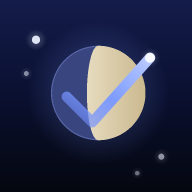
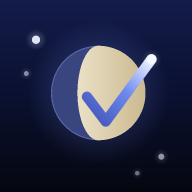
Get the meteor off the moon's unlit half
The stroke crossed three fields — the unlit navy, the lit gold, and the open
sky — and no single blue reads on all three. Measured against each:

  #7d9bff   7.09:1 on the sky   3.44:1 on the navy   1.36:1 on the gold
  #2c3a7a   1.76:1 on the sky   1.17:1 on the navy   7.71:1 on the gold

Every blue that gains on one loses on another, so a stroke straddling the
terminator is illegible along part of its length whatever colour it is picked
in. The previous version spent 26% of its length on the navy and measured
1.74:1 median contrast, with 87% of it under 3:1.

The fix is geometric first. The check now begins on the lit lune and leaves
over the sky, and touches the unlit half nowhere: 84% on the gold, 16% on the
sky, 0% on the navy. The lune widens from 0.62 to 0.72 fill to make room — the
moon still reads as part lit, which is the whole point of it.

The gradient was also running exactly backwards. It faded 50%-opacity blue to
near-white, which put its dim end on the navy and its hot end on the gold: each
end on the one field it could not be seen against. The taper is now in value
rather than in opacity, deep where the stroke lies on the gold and near-white
where it leaves onto the sky. Median contrast goes 1.74 to 3.29, the share
under 3:1 goes 87% to 45%, and the signal the check contributes at 29px rises
65%.

Two new tests, because neither of these can be seen by reading the file. One
sweeps the stroke's whole covered area — including the round caps, which bulge
[…]

Changed region(s): [[0.3125, 0.2188, 0.8125, 0.75]]

diff --git a/tests/icons.test.js b/tests/icons.test.js
@@ -162,7 +162,8 @@ test('the stroke gradient matches in both renderers', () => {
 
   assert.deepEqual(stops.map((s) => s.color), [color('METEOR_DIM'), color('METEOR_MID'), color('METEOR_LIT')]);
   assert.equal(stops[1].at, Number(RASTER.match(/const GRAD_STOP = ([\d.]+);/)[1]));
-  assert.deepEqual(stops.map((s) => s.opacity), [0.5, 1, 1]);
+  // Fully opaque throughout. The taper is in value, not in alpha — see below.
+  assert.deepEqual(stops.map((s) => s.opacity), [1, 1, 1]);
 
   // It runs bottom-left to top-right, the direction of travel. If this axis
   // ever flips, the streak brightens at the tail instead of at the head and the
@@ -172,14 +173,88 @@ test('the stroke gradient matches in both renderers', () => {
   assert.deepEqual(axis, [0, 1, 1, 0]);
 });
 
-test('the tail fades but never to nothing', () => {
-  // A stroke that reaches zero opacity vanishes into the unlit half of the moon
-  // and the short arm of the check goes missing, which is what the first draft
-  // did. The floor is what keeps both arms readable at 29px.
-  const block = SVG.match(/<linearGradient id="meteor"[^>]*>([\s\S]*?)<\/linearGradient>/)[1];
-  const first = block.match(/offset="0%"[^/]*stop-opacity="([\d.]+)"/);
-  assert.ok(Number(first[1]) >= 0.4, 'the tail is too faint to survive the unlit half');
-  assert.ok(Number(first[1]) < 1, 'a meteor with no fade is just a checkmark');
+/* WCAG relative luminance, and the contrast ratio between two hex colours. */
+function luminance(hex) {
+  const chan = (i) => {
+    const s = parseInt(hex.slice(1 + i * 2, 3 + i * 2), 16) / 255;
+    return s <= 0.03928 ? s / 12.92 : ((s + 0.055) / 1.055) ** 2.4;
+  };
+  return 0.2126 * chan(0) + 0.7152 * chan(1) + 0.0722 * chan(2);
+}
+const contrast = (a, b) => {
+  const [hi, lo] = luminance(a) > luminance(b) ? [a, b] : [b, a];
+  return (luminance(hi) + 0.05) / (luminance(lo) + 0.05);
+};
+
+test('no part of the meteor lies on the moon\'s unlit half', () => {
+  // This is the constraint the whole colour scheme hangs on, so it is asserted
+  // rather than trusted. There is no blue that reads on both fields at once:
+  //
+  //   #7d9bff  3.44:1 on the unlit navy   1.36:1 on the gold
+  //   #2c3a7a  1.17:1 on the unlit navy   7.71:1 on the gold
+  //
+  // A stroke crossing the terminator is therefore illegible along part of its
+  // length whatever colour it is given. The first version of this icon crossed
+  // it, spent 26% of its length on the navy, and measured 1.74:1 median with
+  // 87% of the stroke under 3:1. The fix was geometric, not chromatic.
+  const cx = units('MOON_X');
+  const cy = units('MOON_Y');
+  const r = units('MOON_R');
+  const fill = Number(RASTER.match(/const FILL = ([\d.]+);/)[1]);
+  const rx = r * Math.abs(1 - 2 * fill);
+  const half = Number(SVG.match(/stroke="url\(#meteor\)"\s+stroke-width="(\d+)"/)[1]) / 2;
+
+  const d = SVG.match(/<path d="((?:M|L)[^"]*)" stroke="url\(#meteor\)"/)[1];
+  const points = [...d.matchAll(/[ML](-?[\d.]+) (-?[\d.]+)/g)].map((p) => [Number(p[1]), Number(p[2])]);
+
+  // Sample the stroke's full covered area, not just its centreline: an edge
+  // sliding over the terminator is the failure this guards, and a centreline
+  // walk would not see it. The round caps bulge half a stroke-width *past* each
+  // endpoint too, so those are swept as discs rather than assumed away.
+  const onUnlit = [];
+  const test = (x, y) => {
+    if (Math.hypot(x - cx, y - cy) > r) return; // over the sky, which is fine
+    const ex = (x - cx) / rx;
+    const ey = (y - cy) / r;
+    if (!(x >= cx || ex * ex + ey * ey <= 1)) onUnlit.push([Math.round(x), Math.round(y)]);
+  };
+  for (let i = 0; i < points.length - 1; i += 1) {
+    const [x1, y1] = points[i];
+    const [x2, y2] = points[i + 1];
+    const len = Math.hypot(x2 - x1, y2 - y1);
+    const nx = -(y2 - y1) / len;
+    const ny = (x2 - x1) / len;
+    for (let s = 0; s <= Math.ceil(len); s += 1) {
+      const t = s / Math.ceil(len);
+      for (const off of [-half, -half / 2, 0, half / 2, half]) {
+        test(x1 + (x2 - x1) * t + nx * off, y1 + (y2 - y1) * t + ny * off);
+      }
+    }
+  }
+  for (const [px, py] of points) {
+    for (let a = 0; a < 32; a += 1) {
+      const th = (a / 32) * Math.PI * 2;
+      test(px + Math.cos(th) * half, py + Math.sin(th) * half);
+    }
+  }
+  assert.deepEqual(onUnlit.slice(0, 5), [], `${onUnlit.length} samples of the stroke sit on the unlit half`);
+});
+
+test('each end of the meteor has contrast against the field it lands on', () => {
+  // The taper is in value, not opacity, and it has to run the right way round.
+  // The first draft faded 50%-opacity blue to near-white, which put the dim end
+  // on the navy and the hot end on the gold — each on the one field it could
+  // not be seen against. If someone flips these stops back, this fails.
+  const stops = [...SVG.match(/<linearGradient id="meteor"[^>]*>([\s\S]*?)<\/linearGradient>/)[1]
+    .matchAll(/stop-color="(#[0-9a-f]{6})"/g)].map((m) => m[1]);
+  const [tail, , head] = stops;
+
+  const LUNE_DARK = '#cbb98f'; // the lune's own gradient at its dark end
+  const SKY = '#0a1030';
+
+  assert.ok(luminance(tail) < luminance(head), 'the tail must be the darker end');
+  assert.ok(contrast(tail, LUNE_DARK) >= 3, `tail on the gold is ${contrast(tail, LUNE_DARK).toFixed(2)}:1`);
+  assert.ok(contrast(head, SKY) >= 4.5, `head on the sky is ${contrast(head, SKY).toFixed(2)}:1`);
 });
 
 test('the icon carries no baked corner radius', () => {

diff --git a/sw.js b/sw.js
@@ -4,7 +4,7 @@
    js/updates.js drives this from the page: it asks the registration to check
    on launch and on foreground, and messages SKIP_WAITING to take a new build. */
 
-const CACHE = 'nightcheck-v88';
+const CACHE = 'nightcheck-v89';
 
 const ASSETS = [
   './',

diff --git a/README.md b/README.md
@@ -808,10 +808,19 @@ node tools/make-icons.mjs
 That is one picture drawn twice, which is the exact shape of thing this repo keeps getting
 caught by, so `tests/icons.test.js` reads the geometry back out of both files and compares
 it — the moon's centre and radius, the fill fraction, the meteor's path, its stroke width,
-the gradient stops and the four stars. It also holds the two decisions that are easy to
-undo by accident: the meteor has to cross the moon (clear of it, it reads as scenery
-rather than as a second subject), and the stroke has to stay wide enough to survive the
-29px an iPhone home screen actually renders.
+the gradient stops and the four stars. It also holds the three decisions that are easy to
+undo by accident:
+
+- **The meteor crosses the moon.** Clear of it, it reads as scenery rather than as a
+  second subject.
+- **None of it touches the moon's unlit half.** No blue reads on both fields — the accent
+  gets 3.44:1 on the unlit navy and 1.36:1 on the gold, and a blue deep enough for the gold
+  (7.71:1) collapses to 1.17:1 on the navy — so a stroke that straddles the terminator is
+  illegible along part of its length whatever colour it is given. The first version
+  straddled it and measured 1.74:1 median with 87% of its length under 3:1.
+- **The stroke survives 29px**, both in width and in contrast: the test checks that the
+  dark end of the taper holds up against the gold and the hot end against the sky, which
+  is the pairing the first version had exactly backwards.
 
 ## Layout
 
